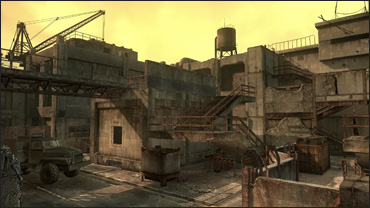
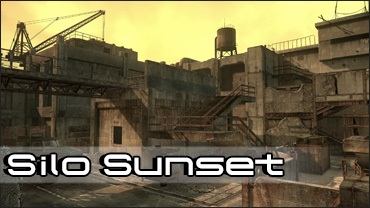
new previews & map constants

Changed region(s): [[0.0, 0.6923, 0.8919, 0.8942], [0.0, 0.0, 1.0, 0.2596], [0.1189, 0.2019, 0.1486, 0.2308]]

diff --git a/src/system/constants.tsx b/src/system/constants.tsx
@@ -20,7 +20,9 @@ export enum MgoMap {
   WinterWarehouse = 13,
   VirtuousVista = 14,
   OuterOutlet = 15,
-  DesertDuel = 17
+  DesertDuel = 17,
+  LethalLeviathan = 18,
+  JadeJunciton = 21,
 }
 
 export enum MgoGameMode {
@@ -60,7 +62,9 @@ export const MgoMapNames = {
   [MgoMap.WinterWarehouse]: "Winter Warehouse",
   [MgoMap.VirtuousVista]: "Virtuous Vista",
   [MgoMap.OuterOutlet]: "Outer Outlet",
-  [MgoMap.DesertDuel]: "Desert Duel"
+  [MgoMap.DesertDuel]: "Desert Duel",
+  [MgoMap.LethalLeviathan]: "Lethal Leviathan",
+  [MgoMap.JadeJunciton]: "Jade Junction",
 }
 
 export const MgoGameModeNames = {
